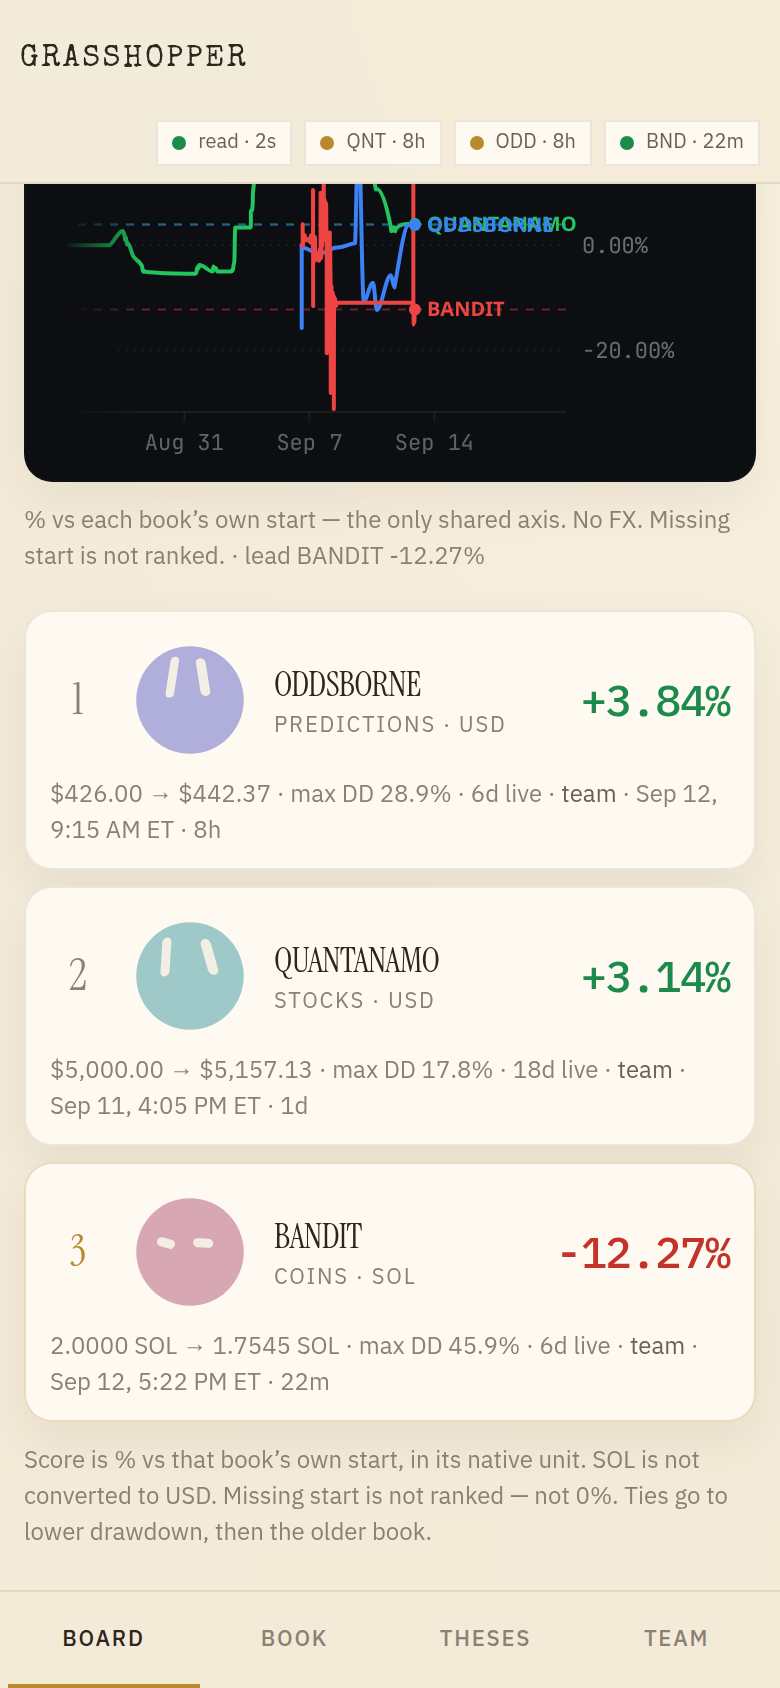
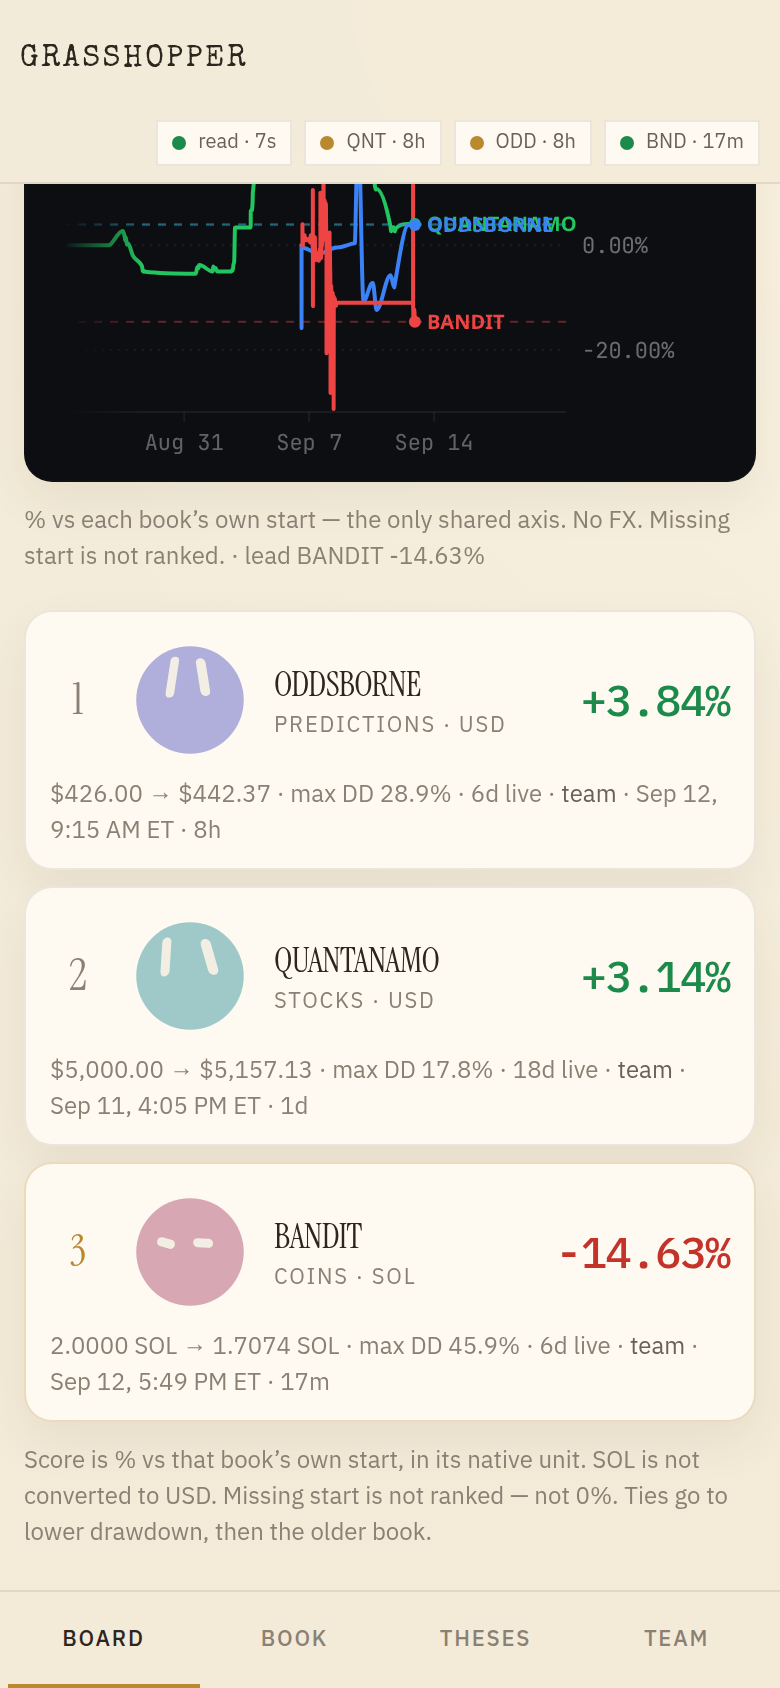
Deepen holding-tile contrast and refresh 390px shots
Make monogram / contract / token marks readable on cream cards.
Book phone capture shows all seven live lots with sign-colored %.

diff --git a/apps/dashboard/lib/holding-icon.ts b/apps/dashboard/lib/holding-icon.ts
@@ -13,19 +13,19 @@ export type HoldingTilePaint = {
 };
 
 const STOCK_TILES: readonly HoldingTilePaint[] = [
-  { fill: '#e8edd9', ink: '#3a4634', rule: '#c5cbb4' },
-  { fill: '#e7e4d4', ink: '#3d3a2e', rule: '#c8c3ae' },
-  { fill: '#e9e8de', ink: '#3a3d38', rule: '#c6c5ba' },
+  { fill: '#d5debf', ink: '#2f3a2a', rule: '#b4be9a' },
+  { fill: '#ddd6be', ink: '#3a3426', rule: '#c0b89a' },
+  { fill: '#d8d6c8', ink: '#33362f', rule: '#b7b5a6' },
 ];
 
 const CONTRACT_TILES: readonly HoldingTilePaint[] = [
-  { fill: '#e4e6ee', ink: '#353a48', rule: '#c3c6d2' },
-  { fill: '#e6e4ea', ink: '#3a3644', rule: '#c5c2cc' },
+  { fill: '#cfd4e4', ink: '#2c3140', rule: '#a8adbf' },
+  { fill: '#d4d0de', ink: '#322e3c', rule: '#b0abbc' },
 ];
 
 const TOKEN_TILES: readonly HoldingTilePaint[] = [
-  { fill: '#eee3d6', ink: '#4a3830', rule: '#d2c2b2' },
-  { fill: '#eadfd4', ink: '#46362e', rule: '#d0bbaa' },
+  { fill: '#e4c9b0', ink: '#3f2d24', rule: '#c4a88e' },
+  { fill: '#e0c4b4', ink: '#3c2a24', rule: '#c2a090' },
 ];
 
 export function holdingIconKind(venue: DeskVenue): HoldingIconKind {

diff --git a/apps/dashboard/lib/holding-icon.test.ts b/apps/dashboard/lib/holding-icon.test.ts
@@ -22,8 +22,8 @@ describe('holding icon tiles', () => {
     const a = holdingTilePaint('NBIS', 'equity');
     const b = holdingTilePaint('NBIS', 'equity');
     expect(a).toEqual(b);
-    expect(a.fill.startsWith('#e')).toBe(true);
-    expect(a.ink.startsWith('#3') || a.ink.startsWith('#4')).toBe(true);
+    expect(a.fill.startsWith('#d') || a.fill.startsWith('#e') || a.fill.startsWith('#c')).toBe(true);
+    expect(a.ink.startsWith('#2') || a.ink.startsWith('#3') || a.ink.startsWith('#4')).toBe(true);
   });
 
   test('SVG tile is code-drawn — no loot art or steward faces', async () => {
